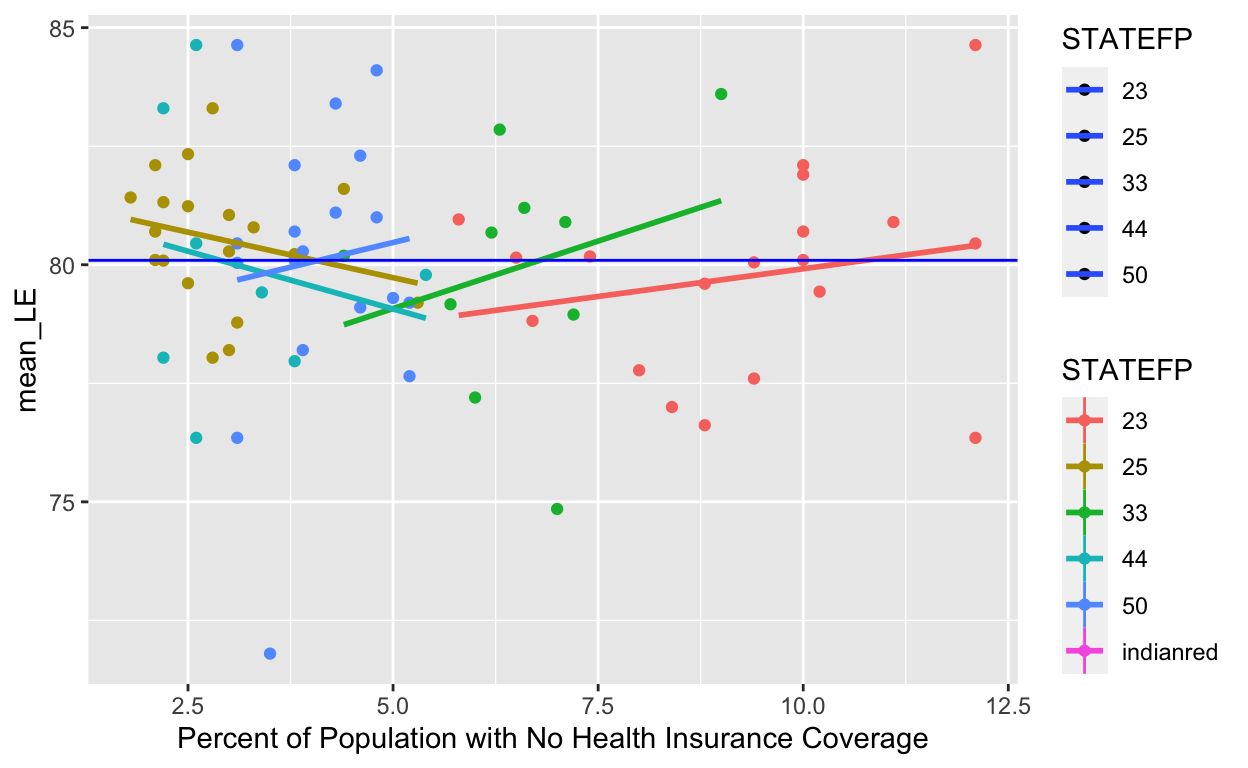
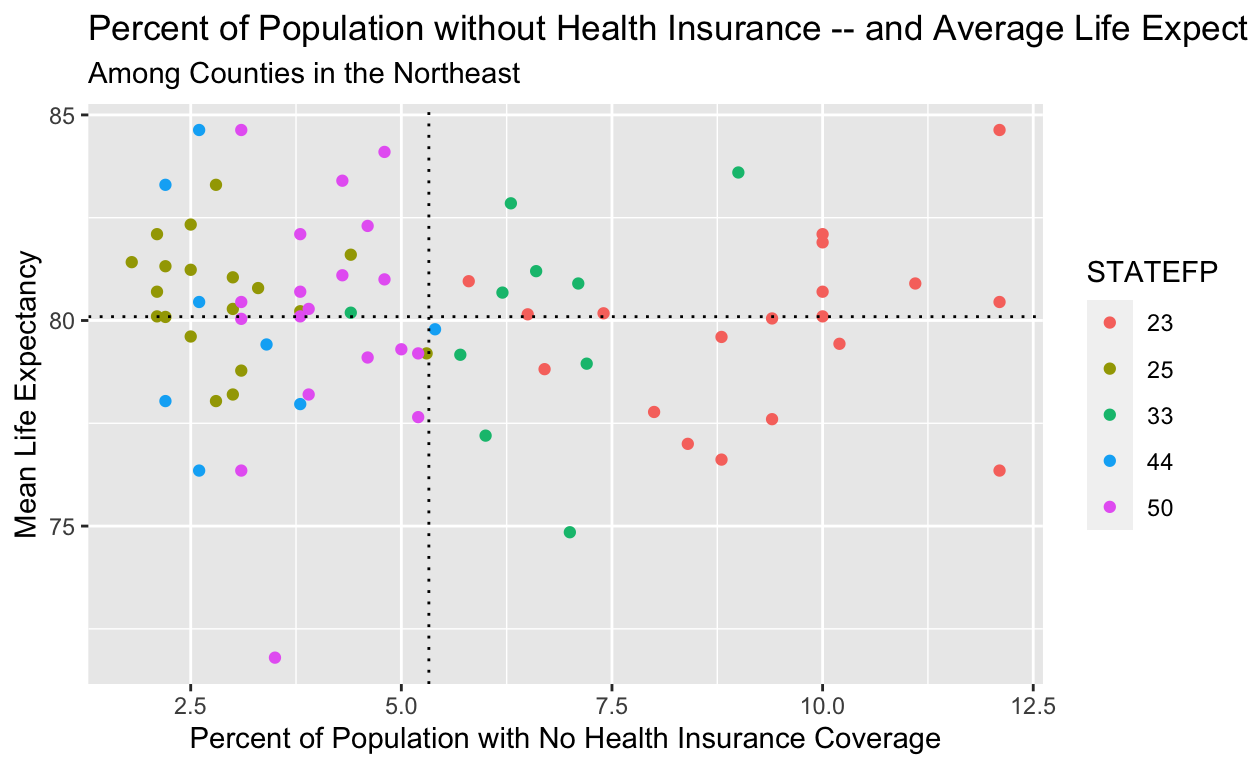
2:58

diff --git a/index.html b/index.html
@@ -115,7 +115,7 @@ code span.wa { color: #5e5e5e; font-style: italic; } /* Warning */
   <!--/radix_placeholder_rmarkdown_metadata-->
   
   <script type="text/json" id="radix-resource-manifest">
-  {"type":"character","attributes":{},"value":["Health_Insurance_Coverage_-_Counties_2015-2019.csv","index_files/anchor-4.2.2/anchor.min.js","index_files/bowser-1.9.3/bowser.min.js","index_files/distill-2.2.21/template.v2.js","index_files/figure-html5/unnamed-chunk-4-1.png","index_files/figure-html5/unnamed-chunk-9-1.png","index_files/header-attrs-2.17/header-attrs.js","index_files/header-attrs-2.24/header-attrs.js","index_files/jquery-3.6.0/jquery-3.6.0.js","index_files/jquery-3.6.0/jquery-3.6.0.min.js","index_files/jquery-3.6.0/jquery-3.6.0.min.map","index_files/popper-2.6.0/popper.min.js","index_files/tippy-6.2.7/tippy-bundle.umd.min.js","index_files/tippy-6.2.7/tippy-light-border.css","index_files/tippy-6.2.7/tippy.css","index_files/tippy-6.2.7/tippy.umd.min.js","index_files/webcomponents-2.0.0/webcomponents.js","U.S._Life_Expectancy_at_Birth_by_State_and_Census_Tract_-_2010-2015.csv"]}
+  {"type":"character","attributes":{},"value":["Health_Insurance_Coverage_-_Counties_2015-2019.csv","index_files/anchor-4.2.2/anchor.min.js","index_files/bowser-1.9.3/bowser.min.js","index_files/distill-2.2.21/template.v2.js","index_files/figure-html5/unnamed-chunk-4-1.png","index_files/figure-html5/unnamed-chunk-9-1.png","index_files/figure-html5/unnamed-chunk-9-2.png","index_files/header-attrs-2.17/header-attrs.js","index_files/header-attrs-2.24/header-attrs.js","index_files/jquery-3.6.0/jquery-3.6.0.js","index_files/jquery-3.6.0/jquery-3.6.0.min.js","index_files/jquery-3.6.0/jquery-3.6.0.min.map","index_files/popper-2.6.0/popper.min.js","index_files/tippy-6.2.7/tippy-bundle.umd.min.js","index_files/tippy-6.2.7/tippy-light-border.css","index_files/tippy-6.2.7/tippy.css","index_files/tippy-6.2.7/tippy.umd.min.js","index_files/webcomponents-2.0.0/webcomponents.js","U.S._Life_Expectancy_at_Birth_by_State_and_Census_Tract_-_2010-2015.csv"]}
   </script>
   <!--radix_placeholder_navigation_in_header-->
   <!--/radix_placeholder_navigation_in_header-->
@@ -1523,6 +1523,8 @@ code span.wa { color: #5e5e5e; font-style: italic; } /* Warning */
 </div>
 </div>
 <h2 id="research-questionthoughts">Research Question/Thoughts!!!</h2>
+<p>What effect does a lack of health insurance have on a community’s average life expectancy?
+I this study, I plan to examine the correlation between health insurance coverage and life expectancy, across counties in the New England states</p>
 <p>Does an area’s walkability influence the life expectancy of its residents?
 In this study, I plan to examine the correlation between walkability and life expectancy, across either counties or states.
 I hypothesize that communities with higher walkability scores also enjoy longer lives.
@@ -1748,11 +1750,26 @@ I also hope to incorporate various demographic measures in my study, in an attem
 <pre class="sourceCode r"><code class="sourceCode r"><span><span class='va'>PERFECT</span> <span class='op'>|&gt;</span></span>
 <span>  <span class='fu'><a href='https://ggplot2.tidyverse.org/reference/ggplot.html'>ggplot</a></span><span class='op'>(</span><span class='fu'><a href='https://ggplot2.tidyverse.org/reference/aes.html'>aes</a></span><span class='op'>(</span>x <span class='op'>=</span> <span class='va'>`Percent of Population with No Health Insurance Coverage`</span>, y <span class='op'>=</span> <span class='va'>mean_LE</span>, color <span class='op'>=</span> <span class='va'>STATEFP</span>,</span>
 <span>                     fill <span class='op'>=</span> <span class='va'>STATEFP</span><span class='op'>)</span><span class='op'>)</span> <span class='op'>+</span></span>
-<span>  <span class='fu'><a href='https://ggplot2.tidyverse.org/reference/geom_point.html'>geom_point</a></span><span class='op'>(</span><span class='op'>)</span> <span class='op'>+</span> <span class='fu'><a href='https://ggplot2.tidyverse.org/reference/geom_smooth.html'>geom_smooth</a></span><span class='op'>(</span>method <span class='op'>=</span> <span class='st'>"lm"</span>, se <span class='op'>=</span> <span class='cn'>FALSE</span><span class='op'>)</span> <span class='op'>+</span> </span>
-<span>  <span class='fu'><a href='https://ggplot2.tidyverse.org/reference/geom_abline.html'>geom_hline</a></span><span class='op'>(</span><span class='fu'><a href='https://ggplot2.tidyverse.org/reference/aes.html'>aes</a></span><span class='op'>(</span>yintercept <span class='op'>=</span> <span class='fu'><a href='https://rdrr.io/r/base/mean.html'>mean</a></span><span class='op'>(</span><span class='va'>mean_LE</span><span class='op'>)</span><span class='op'>)</span>, color <span class='op'>=</span> <span class='st'>"blue"</span><span class='op'>)</span> <span class='op'>+</span> </span>
-<span>  <span class='fu'><a href='https://ggplot2.tidyverse.org/reference/geom_abline.html'>geom_vline</a></span><span class='op'>(</span><span class='fu'><a href='https://ggplot2.tidyverse.org/reference/aes.html'>aes</a></span><span class='op'>(</span>xintercept <span class='op'>=</span> <span class='fu'><a href='https://rdrr.io/r/base/mean.html'>mean</a></span><span class='op'>(</span><span class='st'>"Percent of Population with No Health Insurance Coverage"</span><span class='op'>)</span>, color<span class='op'>=</span><span class='st'>"indianred"</span><span class='op'>)</span><span class='op'>)</span></span></code></pre>
+<span>  <span class='fu'><a href='https://ggplot2.tidyverse.org/reference/geom_point.html'>geom_point</a></span><span class='op'>(</span><span class='op'>)</span> <span class='op'>+</span> <span class='fu'><a href='https://ggplot2.tidyverse.org/reference/geom_abline.html'>geom_hline</a></span><span class='op'>(</span><span class='fu'><a href='https://ggplot2.tidyverse.org/reference/aes.html'>aes</a></span><span class='op'>(</span>yintercept <span class='op'>=</span> <span class='fu'><a href='https://rdrr.io/r/base/mean.html'>mean</a></span><span class='op'>(</span><span class='va'>mean_LE</span><span class='op'>)</span><span class='op'>)</span>, color <span class='op'>=</span> <span class='st'>"black"</span>, linetype <span class='op'>=</span> <span class='fl'>3</span><span class='op'>)</span> <span class='op'>+</span> </span>
+<span>  <span class='fu'><a href='https://ggplot2.tidyverse.org/reference/geom_abline.html'>geom_vline</a></span><span class='op'>(</span><span class='fu'><a href='https://ggplot2.tidyverse.org/reference/aes.html'>aes</a></span><span class='op'>(</span>xintercept <span class='op'>=</span> <span class='fu'><a href='https://rdrr.io/r/base/mean.html'>mean</a></span><span class='op'>(</span><span class='va'>`Percent of Population with No Health Insurance Coverage`</span><span class='op'>)</span><span class='op'>)</span>, color <span class='op'>=</span> <span class='st'>"black"</span>, linetype <span class='op'>=</span> <span class='fl'>3</span><span class='op'>)</span> <span class='op'>+</span> </span>
+<span>  <span class='fu'><a href='https://ggplot2.tidyverse.org/reference/labs.html'>labs</a></span><span class='op'>(</span>x <span class='op'>=</span> <span class='st'>"Percent of Population with No Health Insurance Coverage"</span>,</span>
+<span>       y <span class='op'>=</span> <span class='st'>"Mean Life Expectancy"</span>,</span>
+<span>       title <span class='op'>=</span> <span class='st'>"Percent of Population without Health Insurance -- and Average Life Expectancy"</span>,</span>
+<span>       subtitle <span class='op'>=</span> <span class='st'>"Among Counties in the Northeast"</span><span class='op'>)</span></span></code></pre>
 </div>
-<p><img src="index_files/figure-html5/unnamed-chunk-9-1.png" width="624" /></p>
+<img src="index_files/figure-html5/unnamed-chunk-9-1.png" width="624" />
+<div class="sourceCode">
+<pre class="sourceCode r"><code class="sourceCode r"><span><span class='va'>PERFECT</span> <span class='op'>|&gt;</span></span>
+<span>  <span class='fu'><a href='https://ggplot2.tidyverse.org/reference/ggplot.html'>ggplot</a></span><span class='op'>(</span><span class='fu'><a href='https://ggplot2.tidyverse.org/reference/aes.html'>aes</a></span><span class='op'>(</span>x <span class='op'>=</span> <span class='va'>`Percent of Population with No Health Insurance Coverage`</span>, y <span class='op'>=</span> <span class='va'>mean_LE</span>, color <span class='op'>=</span> <span class='va'>STATEFP</span>,</span>
+<span>                     fill <span class='op'>=</span> <span class='va'>STATEFP</span><span class='op'>)</span><span class='op'>)</span> <span class='op'>+</span></span>
+<span>   <span class='fu'><a href='https://ggplot2.tidyverse.org/reference/geom_smooth.html'>geom_smooth</a></span><span class='op'>(</span>method <span class='op'>=</span> <span class='st'>"lm"</span>, se <span class='op'>=</span> <span class='cn'>FALSE</span><span class='op'>)</span> <span class='op'>+</span> <span class='fu'><a href='https://ggplot2.tidyverse.org/reference/geom_abline.html'>geom_hline</a></span><span class='op'>(</span><span class='fu'><a href='https://ggplot2.tidyverse.org/reference/aes.html'>aes</a></span><span class='op'>(</span>yintercept <span class='op'>=</span> <span class='fu'><a href='https://rdrr.io/r/base/mean.html'>mean</a></span><span class='op'>(</span><span class='va'>mean_LE</span><span class='op'>)</span><span class='op'>)</span>, color <span class='op'>=</span> <span class='st'>"black"</span>, linetype <span class='op'>=</span> <span class='fl'>3</span><span class='op'>)</span> <span class='op'>+</span> </span>
+<span>  <span class='fu'><a href='https://ggplot2.tidyverse.org/reference/geom_abline.html'>geom_vline</a></span><span class='op'>(</span><span class='fu'><a href='https://ggplot2.tidyverse.org/reference/aes.html'>aes</a></span><span class='op'>(</span>xintercept <span class='op'>=</span> <span class='fu'><a href='https://rdrr.io/r/base/mean.html'>mean</a></span><span class='op'>(</span><span class='va'>`Percent of Population with No Health Insurance Coverage`</span><span class='op'>)</span><span class='op'>)</span>, color <span class='op'>=</span> <span class='st'>"black"</span>, linetype <span class='op'>=</span> <span class='fl'>3</span><span class='op'>)</span> <span class='op'>+</span> </span>
+<span>  <span class='fu'><a href='https://ggplot2.tidyverse.org/reference/labs.html'>labs</a></span><span class='op'>(</span>x <span class='op'>=</span> <span class='st'>"Percent of Population with No Health Insurance Coverage"</span>,</span>
+<span>       y <span class='op'>=</span> <span class='st'>"Mean Life Expectancy"</span>,</span>
+<span>       title <span class='op'>=</span> <span class='st'>"Percent of Population without Health Insurance -- and Average Life Expectancy"</span>,</span>
+<span>       subtitle <span class='op'>=</span> <span class='st'>"Among Counties in the Northeast"</span><span class='op'>)</span></span></code></pre>
+</div>
+<p><img src="index_files/figure-html5/unnamed-chunk-9-2.png" width="624" /></p>
 </div>
 <h2 id="httpsdisasters.census.govdatasetsuscensushealth-insurance-coverage-counties-2015-2019about"><a href="https://disasters.census.gov/datasets/USCensus" class="uri">https://disasters.census.gov/datasets/USCensus</a>::health-insurance-coverage-counties-2015-2019/about</h2>
 <p>##<a href="https://www.cdc.gov/nchs/data-visualization/life-expectancy/index.html" class="uri">https://www.cdc.gov/nchs/data-visualization/life-expectancy/index.html</a></p>
